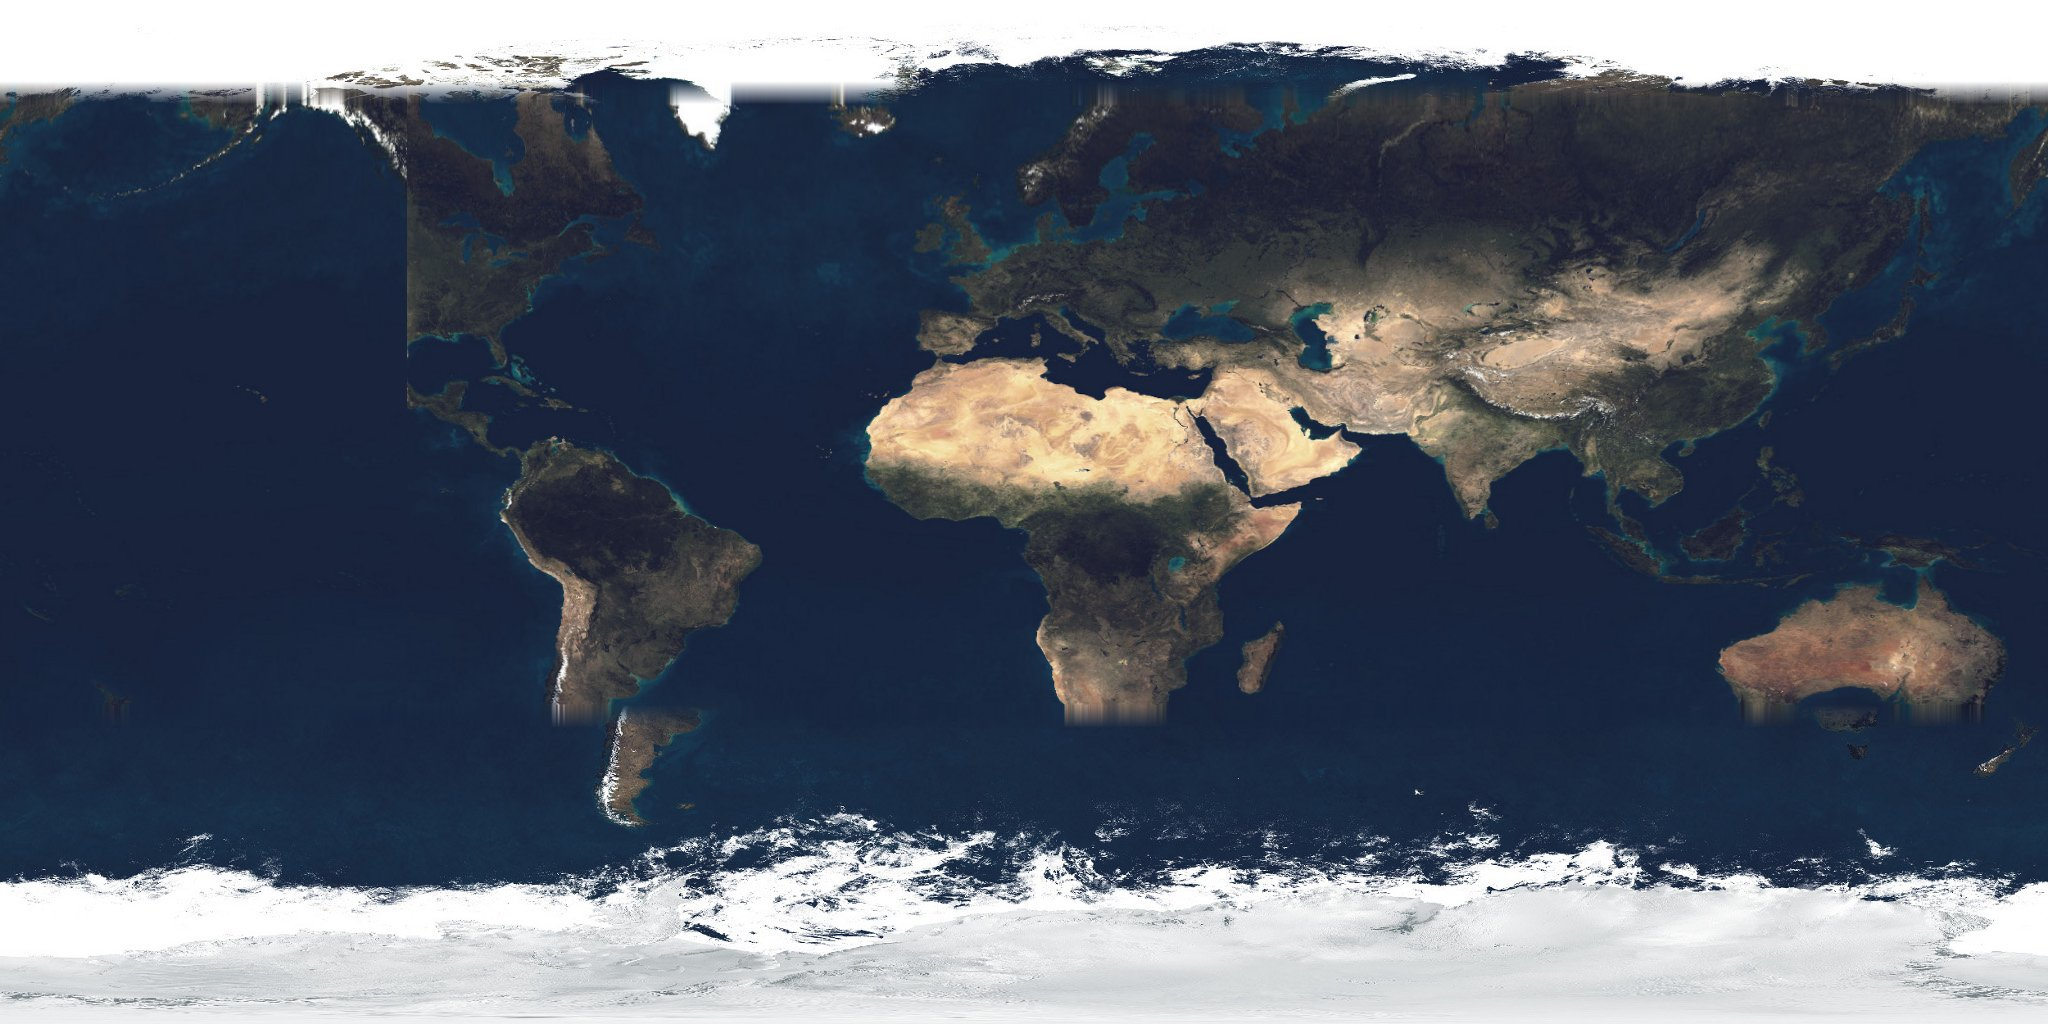
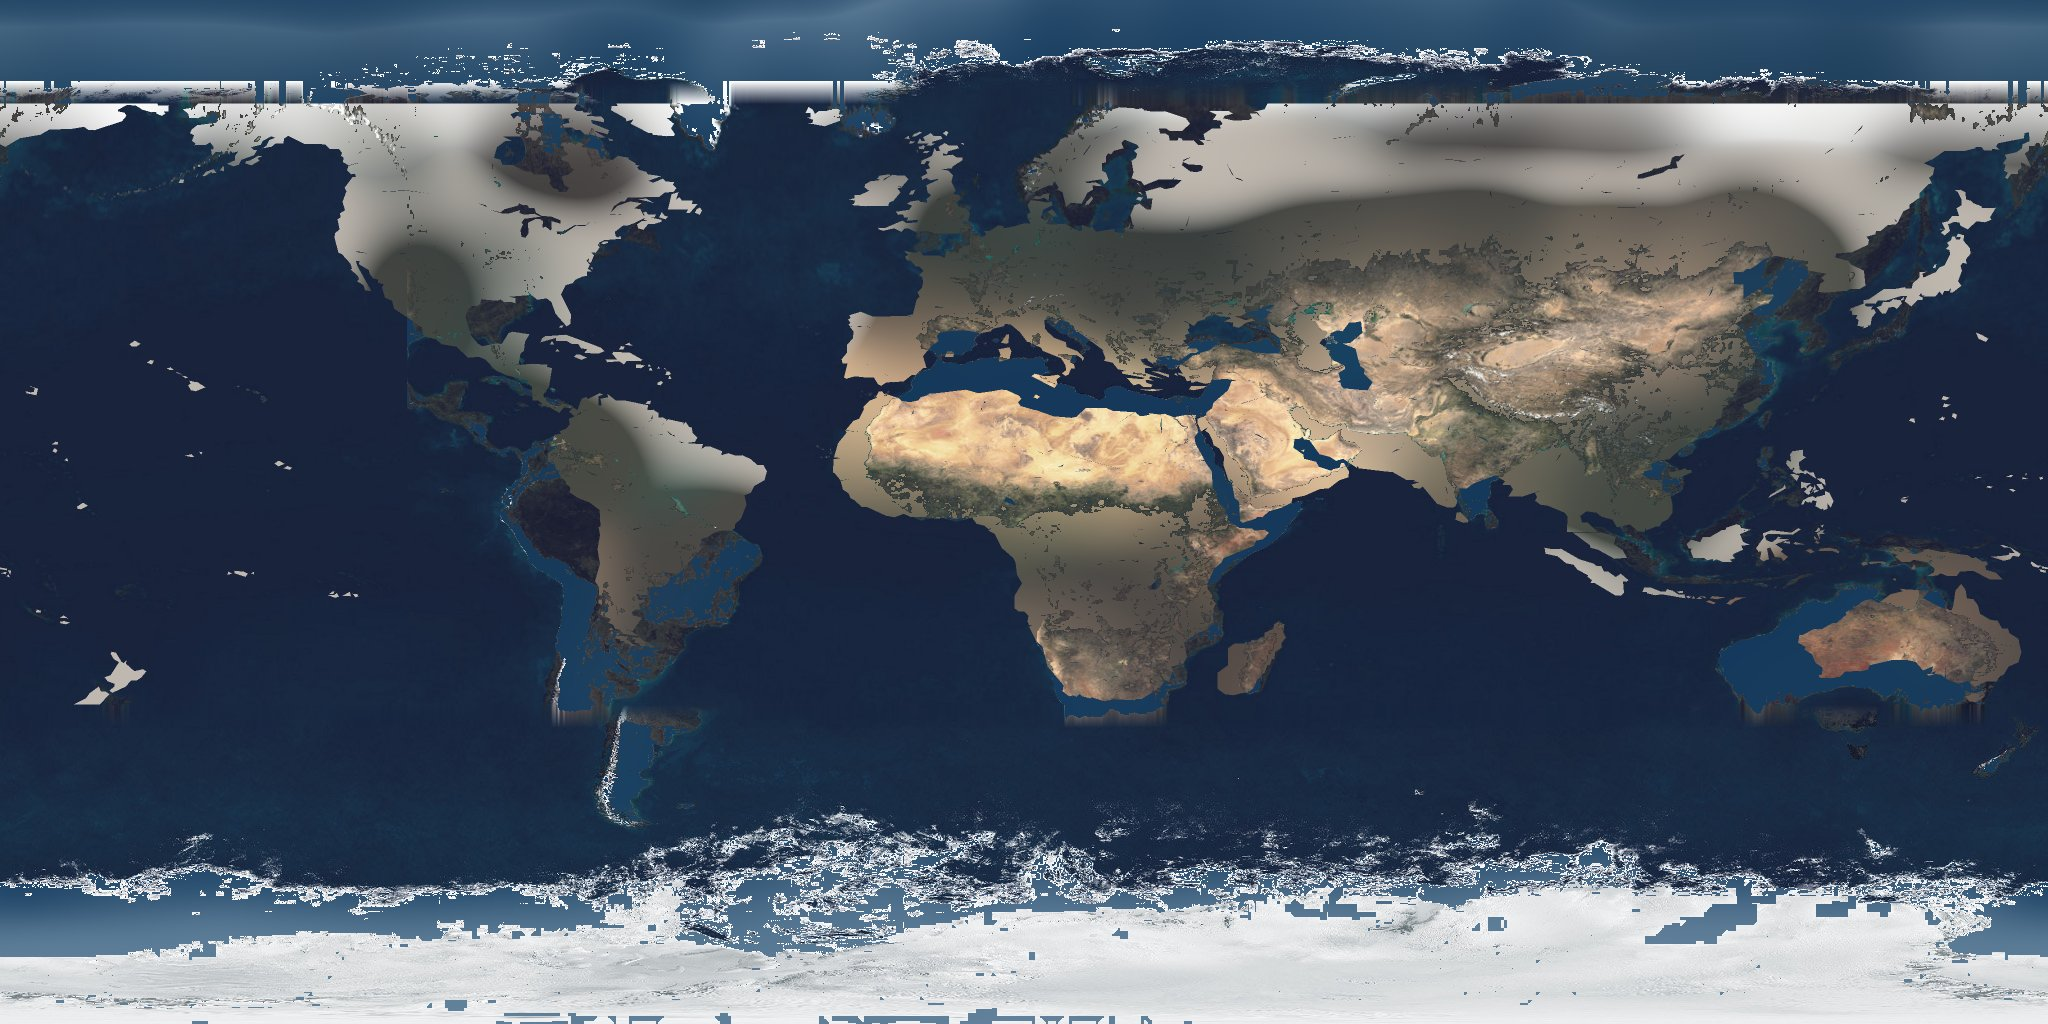
globe: terrain texture re-cut to the board's exact coastlines
warp_earth.py gains a compositing stage: an antialiased land mask is
rasterized from the engine's own province rings (borders.ts + territories.ts
terrain), land imagery is clipped exactly inside it (water-looking satellite
pixels replaced by a blurred land-color field), and deep ocean fills the
outside. The land/sea boundary of the texture now coincides with the A&A
province outlines by construction — no more satellite/board misregistration.

diff --git a/tools/triplea/warp_earth.py b/tools/triplea/warp_earth.py
@@ -39,8 +39,37 @@ Pipeline
 4. Write /tmp/warp_check.png (after) and /tmp/warp_check_before.png with the
    province rings drawn in red using the renderer's exact UV mapping.
 
+Compositing stage (added) — make coastlines EXACTLY the board's coastlines
+------------------------------------------------------------------------
+The warp above brings real coastlines *close* to the province rings, but a hand
+drawn board can never coincide with real satellite coastlines. So after warping
+we re-cut the texture so the land/sea boundary in the pixels IS the board's:
+
+5. Rasterize a LAND MASK at OUT res (supersampled SS=2x then box-downsampled for
+   antialiased edges) by filling the polygon rings of every LAND territory.
+   Territory terrain ("land"/"sea") comes from territories.ts; the rings come
+   from borders.ts keyed by territory id. Lon wrap (rings up to ~+250 deg in the
+   Pacific) is handled by drawing each ring at its base lon and at +-360 shifts
+   so seam-crossing polygons fill correctly. Sea zones are NOT filled, so inland
+   seas enclosed by land territories (Caspian, Black Sea, etc.) correctly read as
+   water because no land ring covers them.
+
+6. Composite:
+   - INSIDE the land mask: the warped satellite sample, but where that sample is
+     obviously water (b>r and b>g, or low luminance) it is replaced by a heavily
+     blurred "land color" field (built from only the non-water warped pixels) so
+     ocean never shows inside a province whose board shape is bigger than the
+     real land.
+   - OUTSIDE the land mask: ocean. Real water is kept; real land poking past the
+     board coastline is overwritten with deep ocean blue (#13456e) blended with
+     the local satellite water tone so it is not flat.
+   - The supersampled mask gives a soft 1-2px antialiased coastline.
+
+7. Regenerate earth_day.jpg, plus /tmp/warp_check2.png (composited + red rings)
+   and crops /tmp/fit_europe.png, /tmp/fit_pacific.png, /tmp/fit_americas.png.
+
 Re-runnable: the original texture is preserved as earth_day_src.jpg on first run
-and always sampled from that copy.
+and always sampled from that copy. A single run does warp + composite.
 
 Run:  python3 tools/triplea/warp_earth.py
 """
@@ -50,14 +79,19 @@ import math
 import json
 import shutil
 import numpy as np
-from PIL import Image
+from PIL import Image, ImageDraw
 
 HERE = os.path.dirname(os.path.abspath(__file__))
 ROOT = os.path.abspath(os.path.join(HERE, "..", ".."))
 CENTERS = os.path.join(HERE, "centers.txt")
 BORDERS_TS = os.path.join(ROOT, "src", "engine", "data", "borders.ts")
+TERRITORIES_TS = os.path.join(ROOT, "src", "engine", "data", "territories.ts")
 EARTH_OUT = os.path.join(ROOT, "src", "client", "public", "earth_day.jpg")
 EARTH_SRC = os.path.join(HERE, "earth_day_src.jpg")
+
+# Compositing stage constants.
+SS = 2                             # supersample factor for the land mask
+DEEP_OCEAN = np.array([0x13, 0x45, 0x6e], np.float32)  # #13456e deep ocean blue
 
 # Board / linear-fit constants (must match generate.py).
 W, H = 7705, 3213
@@ -494,8 +528,10 @@ def main():
                      np.clip((lat_lin - (lat_bot - EDGE_BLEND_DEG)) / EDGE_BLEND_DEG, 0, 1),
                      wfrac)
     wfrac = wfrac[..., None]
-    out = warped * wfrac + identity * (1 - wfrac)
-    out = np.clip(out, 0, 255).astype(np.uint8)
+    warped_full = warped * wfrac + identity * (1 - wfrac)
+
+    # --- compositing stage: cut land/sea to the board's exact coastlines ---
+    out = composite(warped_full)
 
     Image.fromarray(out, "RGB").save(EARTH_OUT, quality=85)
     print(f"\nWrote {EARTH_OUT} ({OUT_W}x{OUT_H}, q85)")
@@ -519,6 +555,19 @@ def main():
     save_crop(after_img, "NorthAmerica", 0, 150, 700, 650)
     print("Wrote /tmp crops: europe/japanpacific/northamerica")
 
+    # --- compositing-stage verification: rings on the COMPOSITED texture ---
+    comp_img = Image.fromarray(out, "RGB")
+    draw_rings(comp_img, rings)
+    comp_img.save("/tmp/warp_check2.png")
+    print("Wrote /tmp/warp_check2.png (composited + rings)")
+    # u=(lon+180)/360*2048: lon -10 -> ~967, lon 50 -> ~1308 (Europe/Caspian)
+    save_named_crop(comp_img, "europe", 960, 250, 1340, 620)
+    # Pacific / Japan / SE Asia: lon 95..175 -> u ~1564..2018
+    save_named_crop(comp_img, "pacific", 1560, 250, 2040, 760)
+    # Americas: lon -125..-55 -> u ~312..711
+    save_named_crop(comp_img, "americas", 130, 150, 720, 880)
+    print("Wrote /tmp fit crops: europe/pacific/americas")
+
 
 def sample_to_identity(src, SW, SH):
     """Resample the ORIGINAL source to OUT_W x OUT_H with identity lon/lat map
@@ -531,6 +580,145 @@ def sample_to_identity(src, SW, SH):
     u0 = np.floor(su).astype(int) % SW
     v0 = np.clip(np.floor(sv).astype(int), 0, SH - 1)
     return src[v0, u0]
+
+
+def parse_terrain():
+    """territory id -> terrain ('land' | 'sea') from territories.ts."""
+    txt = open(TERRITORIES_TS).read()
+    terr = {}
+    for m in re.finditer(r'id:\s*"([a-z0-9_]+)".*?terrain:\s*"([a-z]+)"', txt):
+        terr[m.group(1)] = m.group(2)
+    return terr
+
+
+def parse_borders_by_id():
+    """Parse borders.ts -> {id: [ring,...]} where ring is a list of (lon,lat)."""
+    txt = open(BORDERS_TS).read()
+    start = txt.index("{", txt.index("BORDERS"))
+    body = txt[start:]
+    out = {}
+    for m in re.finditer(r'"([a-z0-9_]+)":\s*(\[\[.*?\]\]),?\n', body):
+        tid = m.group(1)
+        try:
+            data = json.loads(m.group(2))
+        except Exception:
+            continue
+        rings = []
+        for ring in data:
+            pts = [(p[0], p[1]) for p in ring if len(p) == 2]
+            if len(pts) >= 3:
+                rings.append(pts)
+        if rings:
+            out[tid] = rings
+    return out
+
+
+def build_land_mask():
+    """Rasterize an antialiased land mask (float32 in [0,1]) at OUT_W x OUT_H.
+
+    Fill every LAND territory's rings using the renderer's exact UV mapping
+    (x=(lon+180)/360*W, y=(90-lat)/180*H). Supersample by SS then box-downsample.
+    Lon wrap: each ring is drawn at lon and lon+-360 so polygons that straddle
+    the +-180 seam (Pacific rings go up to ~+250 deg) fill on both sides.
+    """
+    terr = parse_terrain()
+    borders = parse_borders_by_id()
+    MW, MH = OUT_W * SS, OUT_H * SS
+    mask = Image.new("L", (MW, MH), 0)
+    draw = ImageDraw.Draw(mask)
+    n_land = 0
+    for tid, rings in borders.items():
+        if terr.get(tid) != "land":
+            continue
+        n_land += 1
+        for ring in rings:
+            for shift in (-360.0, 0.0, 360.0):
+                poly = []
+                for lon, lat in ring:
+                    x = (lon + shift + 180.0) / 360.0 * MW
+                    y = (90.0 - lat) / 180.0 * MH
+                    poly.append((x, y))
+                draw.polygon(poly, fill=255)
+    arr = np.asarray(mask, np.float32) / 255.0
+    # Box-downsample SSxSS -> antialiased edges.
+    arr = arr.reshape(OUT_H, SS, OUT_W, SS).mean(axis=(1, 3))
+    print(f"Land mask: filled {n_land} land territories  "
+          f"(land fraction {arr.mean():.3f})")
+    return arr
+
+
+def composite(warped):
+    """Re-cut `warped` (OUT_H x OUT_W x3 float32) so the land/sea boundary is the
+    board's land mask. Returns uint8 RGB."""
+    mask = build_land_mask()                      # (H,W) float in [0,1]
+    r, g, b = warped[..., 0], warped[..., 1], warped[..., 2]
+    lum = 0.299 * r + 0.587 * g + 0.114 * b
+    # "Water-looking" warped pixels: bluish or dark.
+    is_water = ((b > r) & (b > g)) | (lum < 55.0)
+
+    # --- land-color fill: heavily blurred field from non-water warped pixels ---
+    land_px = (~is_water).astype(np.float32)[..., None]
+    num = warped * land_px
+    den = land_px
+    # Big gaussian-ish blur on numerator and denominator, then divide -> at each
+    # pixel, the average colour of nearby genuine-land pixels. Where almost no
+    # land lies within reach (den tiny), fall back to the global mean land color
+    # so big interior gaps (e.g. a black warp patch) never collapse to black.
+    num_b = _big_blur(num)
+    den_b = _big_blur(den)
+    glob_land = num.reshape(-1, 3).sum(0) / max(den.sum(), 1.0)
+    t = np.clip(den_b / 0.04, 0.0, 1.0)          # confidence in the local blur
+    land_color = (num_b / np.maximum(den_b, 1e-4)) * t \
+        + glob_land[None, None, :] * (1.0 - t)
+
+    # --- ocean fill: deep blue blended with local satellite water tone ---
+    water_px = is_water.astype(np.float32)[..., None]
+    wnum = _big_blur(warped * water_px)
+    wden = _big_blur(water_px)
+    glob_water = (warped * water_px).reshape(-1, 3).sum(0) / max(water_px.sum(), 1.0)
+    tw = np.clip(wden / 0.04, 0.0, 1.0)
+    local_water = (wnum / np.maximum(wden, 1e-4)) * tw \
+        + glob_water[None, None, :] * (1.0 - tw)
+    ocean = 0.62 * DEEP_OCEAN[None, None, :] + 0.38 * local_water
+
+    # Inside land: warped where it's real land, else blurred land color.
+    inside = np.where(is_water[..., None], land_color, warped)
+    # Outside land: warped where it's real water, else deep ocean.
+    outside = np.where(is_water[..., None], warped, ocean)
+
+    m = mask[..., None]
+    out = inside * m + outside * (1.0 - m)
+    return np.clip(out, 0, 255).astype(np.uint8)
+
+
+def _big_blur(img, passes=4, radius=28):
+    """Cheap large-radius blur: repeated box blurs via cumulative sums.
+
+    img: (H,W,C) float32. Returns same shape. With passes=4, radius=28 the
+    effective spread is ~100px, enough to bridge large interior warp gaps.
+    Horizontal wraps (cyclic texture); vertical is edge-extended."""
+    out = img
+    for _ in range(passes):
+        out = _box_blur(out, radius)
+    return out
+
+
+def _box_blur(img, r):
+    H_, W_, C = img.shape
+    # Horizontal (with lon wrap, since the texture is cyclic in x).
+    pad = np.concatenate([img[:, -r:], img, img[:, :r]], axis=1)
+    cs = np.cumsum(pad, axis=1)
+    cs = np.concatenate([np.zeros((H_, 1, C), img.dtype), cs], axis=1)
+    horiz = (cs[:, 2 * r + 1:] - cs[:, :-(2 * r + 1)]) / (2 * r + 1)
+    horiz = horiz[:, :W_]
+    # Vertical (edge-extended).
+    padv = np.concatenate(
+        [np.repeat(horiz[:1], r, axis=0), horiz, np.repeat(horiz[-1:], r, axis=0)],
+        axis=0)
+    cs = np.cumsum(padv, axis=0)
+    cs = np.concatenate([np.zeros((1, W_, C), img.dtype), cs], axis=0)
+    vert = (cs[2 * r + 1:] - cs[:-(2 * r + 1)]) / (2 * r + 1)
+    return vert[:H_]
 
 
 def parse_borders():
@@ -581,6 +769,14 @@ def save_crop(img, label, x0, y0, x1, y1, target_w=800):
     scale = target_w / w
     crop = crop.resize((target_w, max(1, int(h * scale))))
     crop.save(f"/tmp/warp_{label.lower()}.png")
+
+
+def save_named_crop(img, label, x0, y0, x1, y1, target_w=800):
+    crop = img.crop((x0, y0, x1, y1))
+    w, h = crop.size
+    scale = target_w / w
+    crop = crop.resize((target_w, max(1, int(h * scale))))
+    crop.save(f"/tmp/fit_{label}.png")
 
 
 if __name__ == "__main__":
